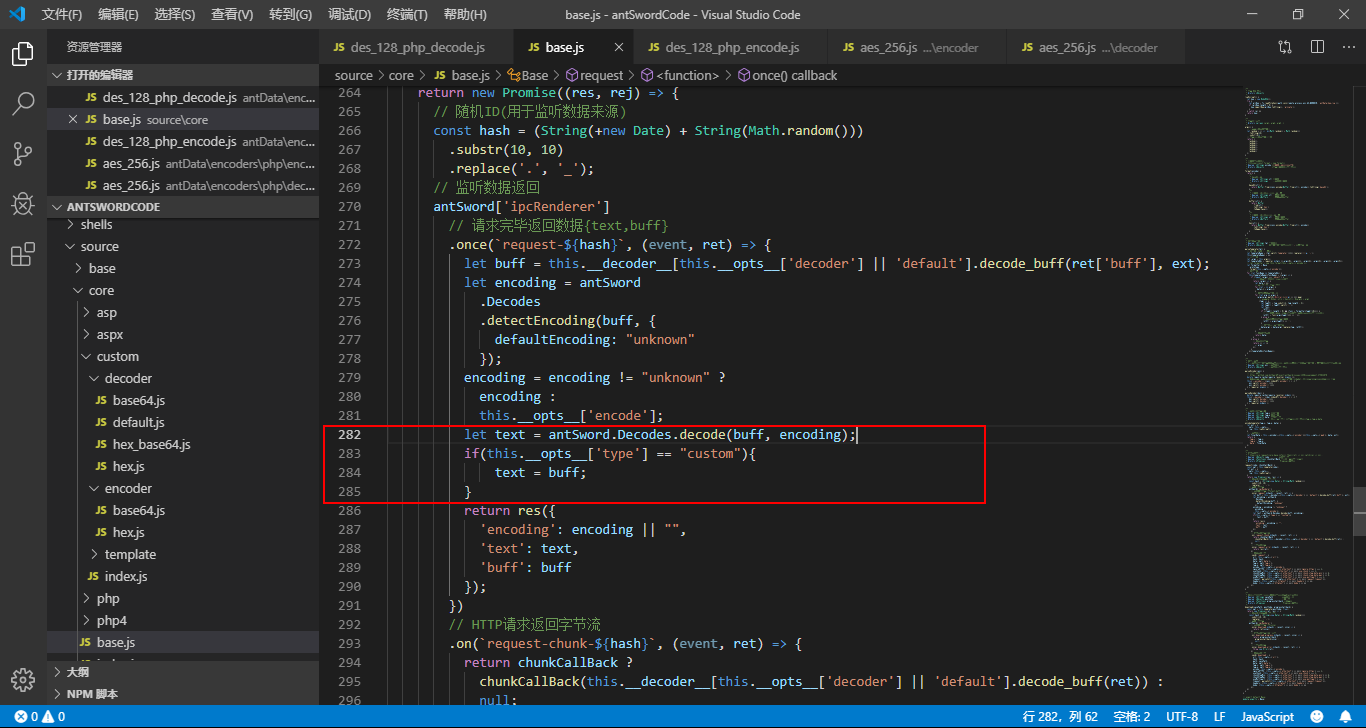
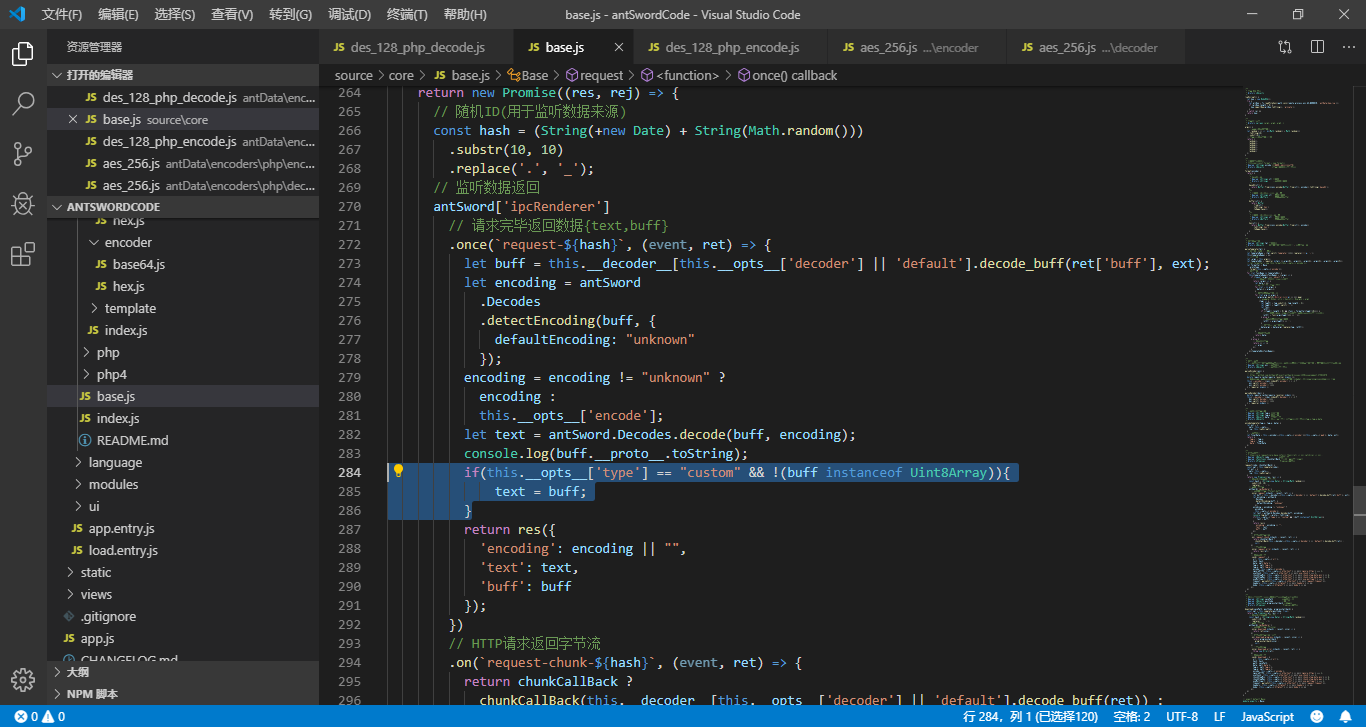
更新修复方法
更新修复方法

diff --git a/README.md b/README.md
@@ -33,16 +33,16 @@
 > 1. 在 \source\core\base.js 284行下方增加一行代码
 
 ```js
-          if(this.__opts__['type'] == "custom"){
-              text = buff;
-          }
+if(this.__opts__['type'] == "custom" && !(buff instanceof Uint8Array)){
+          text = buff;
+}
 ```
 
 ![](./CUSTOM/pic/1566653797328.png)
 
 ## 注意事项
 
-* 某些编码器仅适用于某一特定 Shell, 在使用前可查看代码中注释部分，如无特殊说明则表示通用
+* 某些编码器仅适用于某一特定 Shell, 在使用前可查看代码中注释部分或者同级目录是否有Shell目录，如无特殊说明则表示通用
 
 ## 感谢
 > 感谢AntSword这个伟大的项目
@@ -52,3 +52,5 @@
 ## LICENSE
 
 [LICENSE](./LICENSE)
+## 法律
+该项目仅供学习和测试，请各位遵守《中华人民共和国网络安全法》。禁止使用该项目进行违法操作，一切违法操作本人不承担任何法律责任！
